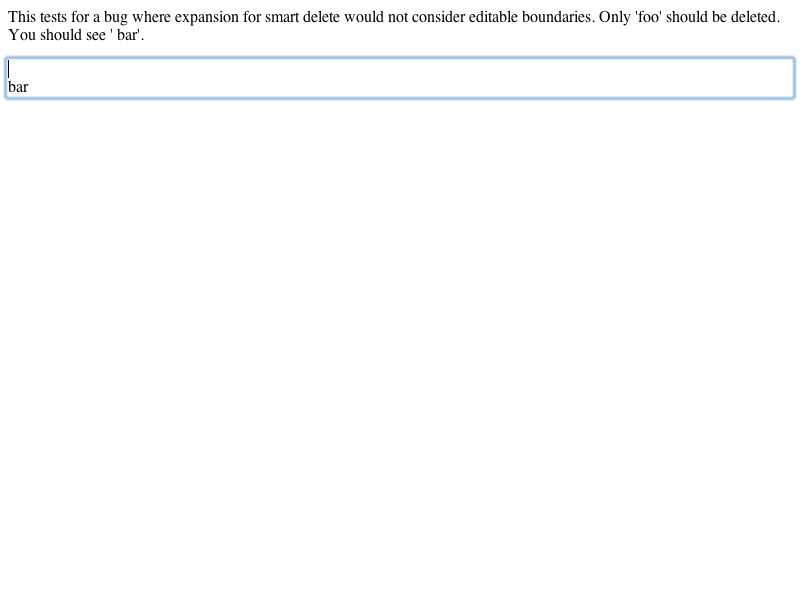
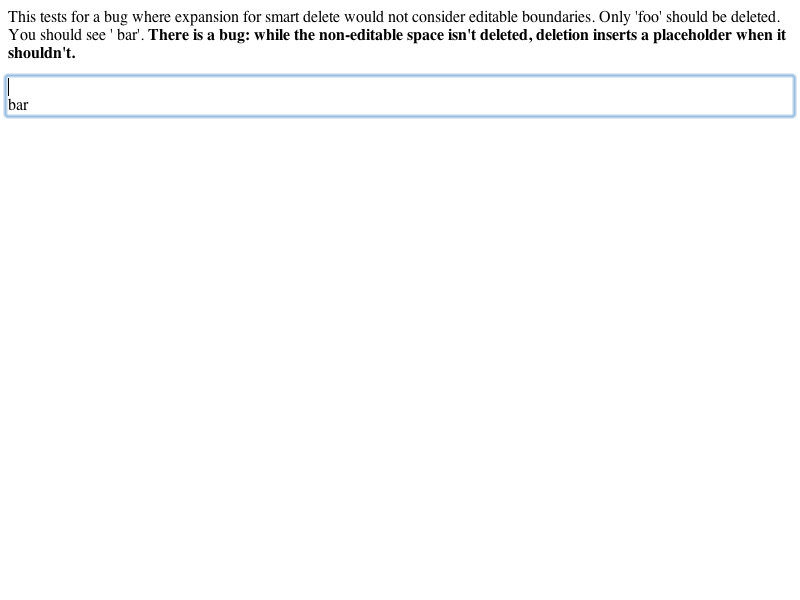
LayoutTests:
Reviewed by Harrison.
        
        <rdar://problem/5390681> WebKit asserts when deleting To Do content selected with a double-click        

        * editing/deleting/5390681-2-expected.checksum: Added.
        * editing/deleting/5390681-2-expected.png: Added.
        * editing/deleting/5390681-2-expected.txt: Added.
        * editing/deleting/5390681-2.html: Added.
        
        Added a FIXME about an extraneous newline:
        * editing/deleting/5390681-expected.checksum:
        * editing/deleting/5390681-expected.png:
        * editing/deleting/5390681-expected.txt:
        * editing/deleting/5390681.html:ada

WebCore:

        Reviewed by Harrison.

        <rdar://problem/5390681> WebKit asserts when deleting To Do content selected with a double-click
        
        * dom/Position.cpp:
        (WebCore::Position::trailingWhitespacePosition): Use VisiblePosition::characterAfter
        to look for a trailing space.  The old code would incorrectly return a position before
        a non-editable space if it had a collapsed space before it.

git-svn-id: https://svn.webkit.org/repository/webkit/trunk@24948 268f45cc-cd09-0410-ab3c-d52691b4dbfc

Changed region(s): [[0.0, 0.03, 1.0, 0.21]]

diff --git a/LayoutTests/editing/deleting/5390681-2.html b/LayoutTests/editing/deleting/5390681-2.html
@@ -1,5 +1,6 @@
 <p>This tests for a bug where expansion for smart delete would not consider editable boundaries.  Only 'foo' should be deleted.  You should see ' bar'. <b>There is a bug: while the non-editable space isn't deleted, deletion inserts a placeholder when it shouldn't.</b></p>
-<div contenteditable="true" id="div">foo<span contenteditable="false"> bar</span></div>
+<div contenteditable="true" id="div">foo
+<span contenteditable="false"> bar</span></div>
 
 <script>
 var div = document.getElementById("div");

diff --git a/WebCore/dom/Position.cpp b/WebCore/dom/Position.cpp
@@ -628,31 +628,14 @@ Position Position::trailingWhitespacePosition(EAffinity affinity, bool considerN
     ASSERT(isEditablePosition(*this));
     if (isNull())
         return Position();
-
-    if (node()->isTextNode()) {
-        Text* textNode = static_cast<Text*>(node());
-        if (offset() < (int)textNode->length()) {
-            String string = textNode->data();
-            UChar c = string[offset()];
-            if (considerNonCollapsibleWhitespace ? (DeprecatedChar(c).isSpace() || c == noBreakSpace) : isCollapsibleWhitespace(c))
-                if (isEditablePosition(*this))
-                    return *this;
-            return Position();
-        }
-    }
-
-    if (downstream().node()->hasTagName(brTag))
-        return Position();
-
-    Position next = nextCharacterPosition(affinity);
-    if (next != *this && next.node()->inSameContainingBlockFlowElement(node()) && next.node()->isTextNode()) {
-        String string = static_cast<Text*>(next.node())->data();
-        UChar c = string[0];
+    
+    VisiblePosition v(*this);
+    UChar c = v.characterAfter();
+    // The space must not be in another paragraph and it must be editable.
+    if (!isEndOfParagraph(v) && v.next(true).isNotNull())
         if (considerNonCollapsibleWhitespace ? (DeprecatedChar(c).isSpace() || c == noBreakSpace) : isCollapsibleWhitespace(c))
-            if (isEditablePosition(*this))
-                return next;
-    }
-
+            return *this;
+    
     return Position();
 }
 
